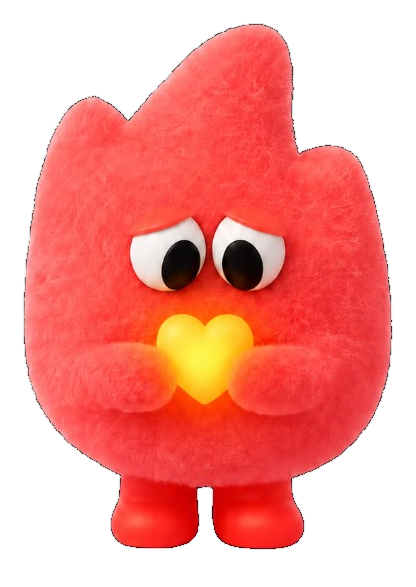
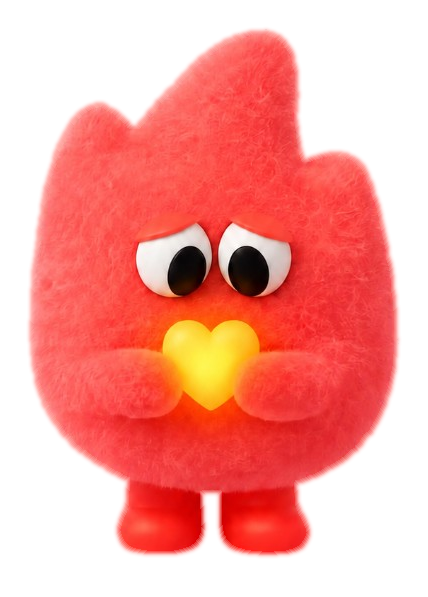
feat(locales, wishlist): update catalog browsing text and enhance wishlist UI
- Changed "Product catalog" to "View menu" in English, Armenian, and Russian locale files for consistency.
- Updated the `WishlistEmptyState` component to include a second line for the sign-in title, improving clarity and user experience.
- Adjusted the action link in the wishlist page to direct users to the product listing instead of the login page, streamlining navigation.
- Modified the empty wishlist mascot dimensions for better visual presentation.

diff --git a/src/features/wishlist/ui/WishlistEmptyState.tsx b/src/features/wishlist/ui/WishlistEmptyState.tsx
@@ -1,31 +1,32 @@
 import Image from "next/image";
-import { Heart, LogIn } from "lucide-react";
+import { Heart } from "lucide-react";
 
 import { AppLink } from "@/components/ui/AppLink";
 
 /** Local `public/` asset — not on R2 yet; do not wrap with `staticAssetUrl`. */
 const EMPTY_WISHLIST_MASCOT_SRC = "/assets/wishlist/empty-wishlist-flame.png";
-const EMPTY_WISHLIST_MASCOT_WIDTH = 416;
-const EMPTY_WISHLIST_MASCOT_HEIGHT = 587;
+const EMPTY_WISHLIST_MASCOT_WIDTH = 428;
+const EMPTY_WISHLIST_MASCOT_HEIGHT = 597;
 
 type WishlistEmptyStateProps = {
   title: string;
-  hint: string;
+  titleSecondLine?: string;
+  hint?: string;
   actionLabel: string;
   actionHref: string;
-  /** Heart for empty wishlist; login for guests. */
-  actionIcon?: "heart" | "login";
 };
 
 /** Empty / guest wishlist — brand illustration, copy and primary CTA. */
 export function WishlistEmptyState({
   title,
+  titleSecondLine,
   hint,
   actionLabel,
   actionHref,
-  actionIcon = "heart",
 }: WishlistEmptyStateProps) {
-  const ActionIcon = actionIcon === "login" ? LogIn : Heart;
+  const showHint = hint != null && hint.length > 0;
+  const showTitleSecondLine =
+    titleSecondLine != null && titleSecondLine.length > 0;
 
   return (
     <div className="flex min-h-[380px] flex-1 flex-col items-center justify-center gap-6 px-2 py-6 text-center sm:min-h-[440px] sm:gap-8 sm:py-10">
@@ -34,20 +35,28 @@ export function WishlistEmptyState({
         alt=""
         width={EMPTY_WISHLIST_MASCOT_WIDTH}
         height={EMPTY_WISHLIST_MASCOT_HEIGHT}
-        sizes="248px"
+        sizes="(min-width: 1025px) 288px, 248px"
         unoptimized
         priority
-        className="-mt-2 h-[220px] w-auto sm:h-[248px]"
+        className="-mt-2 h-[220px] w-auto sm:max-lg:h-[248px] lg:h-72"
         aria-hidden
       />
 
       <div className="flex flex-col gap-2">
         <h2 className="text-lg font-bold tracking-tight text-[#101828] sm:text-xl">
           {title}
+          {showTitleSecondLine ? (
+            <>
+              {" "}
+              <span className="block">{titleSecondLine}</span>
+            </>
+          ) : null}
         </h2>
-        <p className="max-w-[420px] text-sm text-gray-600 sm:text-base">
-          {hint}
-        </p>
+        {showHint ? (
+          <p className="max-w-[420px] text-sm text-gray-600 sm:text-base">
+            {hint}
+          </p>
+        ) : null}
       </div>
 
       <AppLink
@@ -55,7 +64,7 @@ export function WishlistEmptyState({
         prefetchPolicy="intent"
         className="inline-flex h-12 min-w-[220px] items-center justify-center gap-2 rounded-full bg-brand-red px-6 text-sm font-semibold text-white transition hover:bg-brand-red-hot focus-visible:outline focus-visible:outline-2 focus-visible:outline-offset-2 focus-visible:outline-brand-red"
       >
-        <ActionIcon className="size-4 shrink-0" aria-hidden />
+        <Heart className="size-4 shrink-0" aria-hidden />
         {actionLabel}
       </AppLink>
     </div>

diff --git a/src/app/[locale]/(storefront)/wishlist/page.tsx b/src/app/[locale]/(storefront)/wishlist/page.tsx
@@ -52,10 +52,9 @@ export default async function WishlistPage({ params }: WishlistPageProps) {
           {title}
           <WishlistEmptyState
             title={dictionary.wishlist.signInTitle}
-            hint={dictionary.wishlist.signInPrompt}
-            actionLabel={dictionary.header.login}
-            actionHref={`/${rawLocale}/login?next=${encodeURIComponent(`/${rawLocale}/wishlist`)}`}
-            actionIcon="login"
+            titleSecondLine={dictionary.wishlist.signInTitleAccent}
+            actionLabel={dictionary.wishlist.browseCatalog}
+            actionHref={`/${rawLocale}/products`}
           />
         </div>
       </section>
